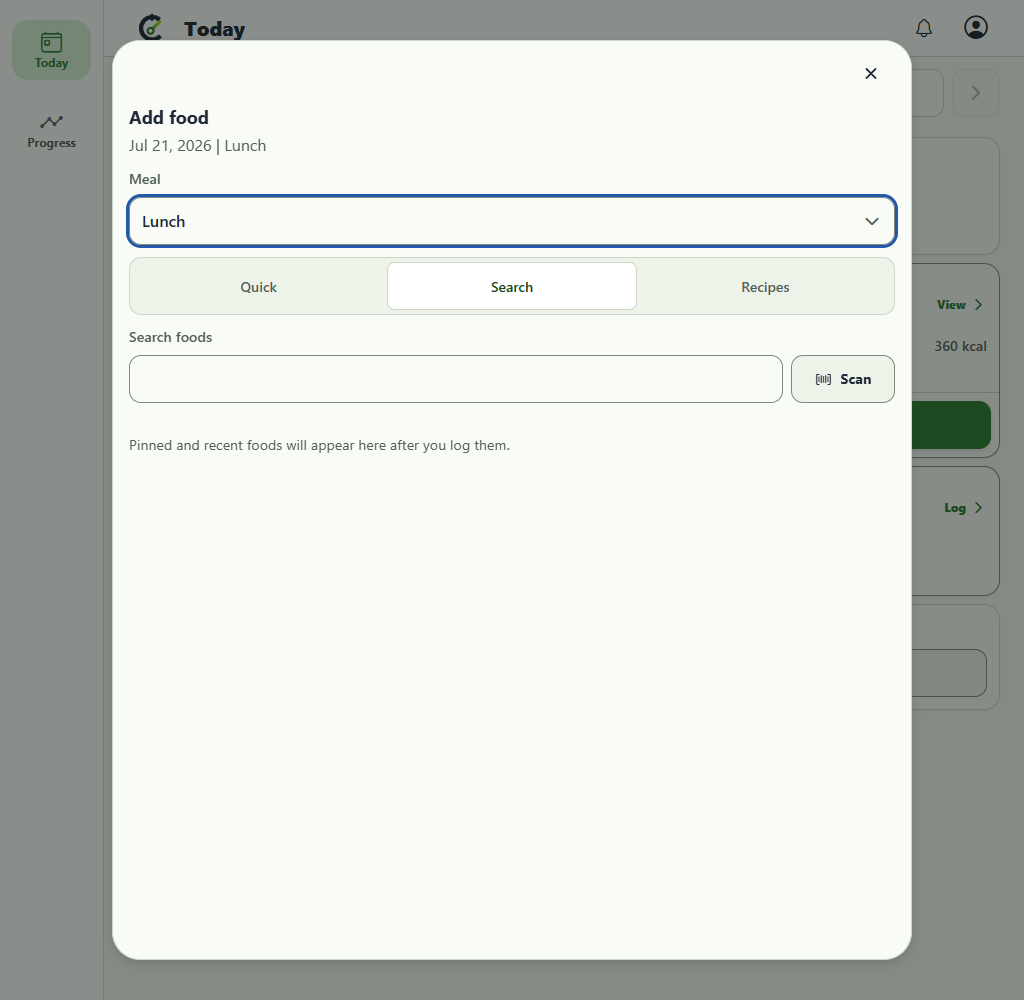
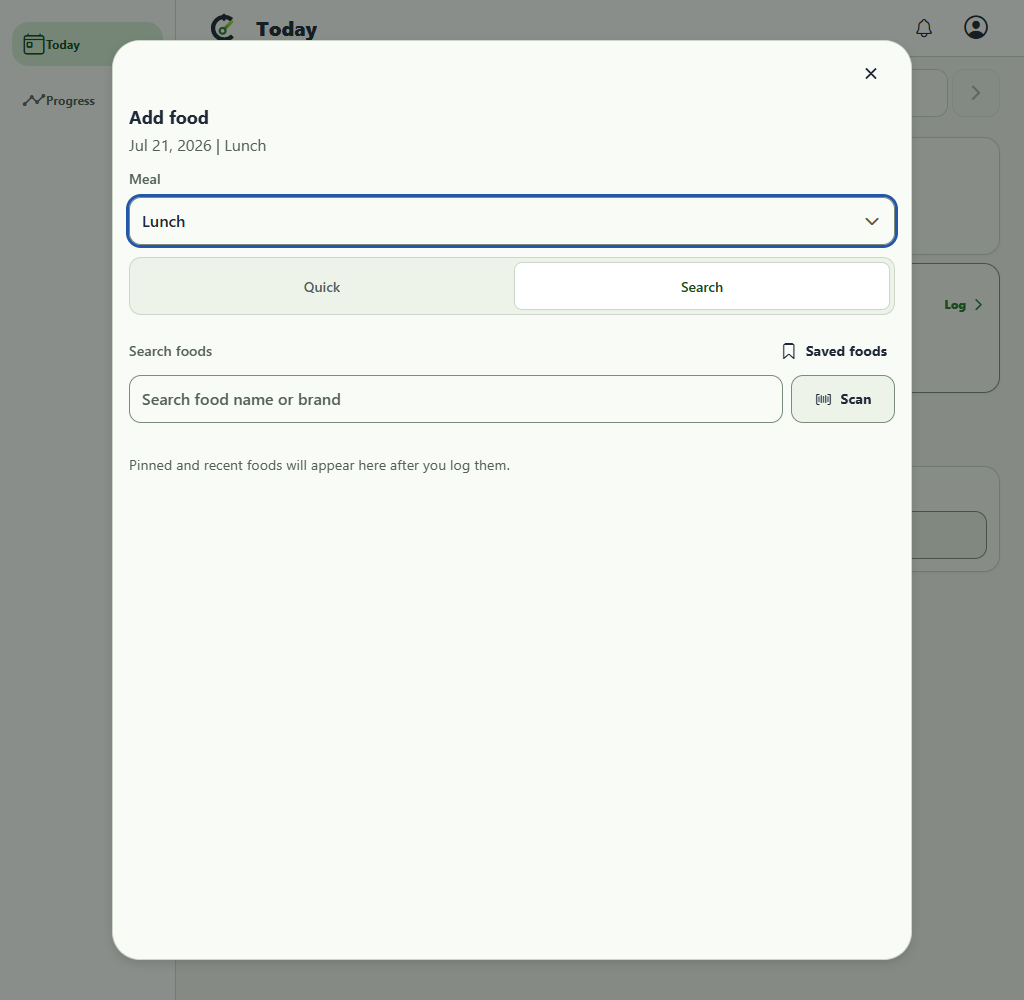
Simplify Add Food entry modes

diff --git a/mobile/src/components/AddFoodSheet.tsx b/mobile/src/components/AddFoodSheet.tsx
@@ -2,7 +2,7 @@ import React, { useCallback, useEffect, useMemo, useRef, useState } from 'react'
 import { FlatList, Keyboard, Linking, Platform, Pressable, StyleSheet, useWindowDimensions, View } from 'react-native';
 import Ionicons from '@expo/vector-icons/Ionicons';
 import { router } from 'expo-router';
-import { useInfiniteQuery, useMutation, useQuery, useQueryClient } from '@tanstack/react-query';
+import { useMutation, useQuery, useQueryClient } from '@tanstack/react-query';
 import { MEAL_PERIODS, type MealPeriod } from '@calibrate/shared';
 import type { FoodLogCreatePayload, MyFoodSummary, RecentFoodSummary } from '@calibrate/api-client';
 import { AppButton } from './AppButton';
@@ -44,10 +44,6 @@ import { radius, spacing, useAppTheme, type AppTheme } from '../theme';
 import { getSafeActionErrorMessage } from '../errors/presentation';
 import { confirmDiscardChanges } from './confirmDiscardChanges';
 import { ASYNC_RESOURCE_STATES, type AsyncResourceState } from '../asyncState/resolveAsyncState';
-import {
-    getSavedFoodsLibraryQueryKey,
-    SAVED_FOODS_LIBRARY_PAGE_SIZE
-} from '../savedFoods/queryKeys';
 
 type AddFoodReturnTo = 'today' | 'food-log';
 
@@ -60,7 +56,7 @@ type AddFoodSheetProps = {
     onLogged?: () => void;
 };
 
-type AddFoodMode = 'quick' | 'search' | 'recipes';
+type AddFoodMode = 'quick' | 'search';
 type FoodBrowseRow =
     | { kind: 'header'; key: string; title: string }
     | {
@@ -76,8 +72,7 @@ type FoodBrowseRow =
 const DEFAULT_ADD_FOOD_MODE: AddFoodMode = 'search';
 const ADD_FOOD_MODES: Array<{ value: AddFoodMode; label: string }> = [
     { value: 'quick', label: 'Quick' },
-    { value: 'search', label: 'Search' },
-    { value: 'recipes', label: 'Recipes' }
+    { value: 'search', label: 'Search' }
 ];
 const SEARCH_DEBOUNCE_MS = 350;
 const SEARCH_WORKSPACE_BLUR_DELAY_MS = 150; // Keeps mobile-web results mounted through input blur and the following press.
@@ -154,16 +149,13 @@ export const AddFoodSheet: React.FC<AddFoodSheetProps> = ({
     const [quickName, setQuickName] = useState('');
     const [query, setQuery] = useState('');
     const [requestedQuery, setRequestedQuery] = useState('');
-    const [recipeQuery, setRecipeQuery] = useState('');
-    const [requestedRecipeQuery, setRequestedRecipeQuery] = useState('');
     const [selection, setSelection] = useState<FoodLogSelection | null>(null);
     const [isMealSelectorOpen, setIsMealSelectorOpen] = useState(false);
     const [isSearchFieldFocused, setIsSearchFieldFocused] = useState(false);
     const searchBlurTimeoutRef = useRef<ReturnType<typeof setTimeout> | null>(null);
     const normalizedQuery = query.trim();
-    const normalizedRecipeQuery = recipeQuery.trim();
     const isMobileSearchWorkspace = (Platform.OS !== 'web' || viewportWidth < ADAPTIVE_DIALOG_BREAKPOINT)
-        && (mode === 'search' || mode === 'recipes')
+        && mode === 'search'
         && isSearchFieldFocused
         && selection === null;
     const usesEdgeToEdgeSheetContent = Platform.OS === 'web'
@@ -181,18 +173,6 @@ export const AddFoodSheet: React.FC<AddFoodSheetProps> = ({
         const timeout = setTimeout(() => setRequestedQuery(normalizedQuery), SEARCH_DEBOUNCE_MS);
         return () => clearTimeout(timeout);
     }, [mode, normalizedQuery, visible]);
-
-    useEffect(() => {
-        if (!visible || mode !== 'recipes' || normalizedRecipeQuery.length === 0) {
-            setRequestedRecipeQuery('');
-            return;
-        }
-        const timeout = setTimeout(
-            () => setRequestedRecipeQuery(normalizedRecipeQuery),
-            SEARCH_DEBOUNCE_MS
-        );
-        return () => clearTimeout(timeout);
-    }, [mode, normalizedRecipeQuery, visible]);
 
     const recentFoodsQuery = useQuery({
         queryKey: ['mobile-recent-foods', meal, requestedQuery || 'browse'],
@@ -213,24 +193,9 @@ export const AddFoodSheet: React.FC<AddFoodSheetProps> = ({
         queryFn: () => api.getMyFoods(),
         enabled: visible && mode === 'search'
     });
-    const recipeLibraryQuery = useInfiniteQuery({
-        queryKey: getSavedFoodsLibraryQueryKey(requestedRecipeQuery, 'RECIPE'),
-        queryFn: ({ pageParam }) => api.getMyFoodsLibrary({
-            q: requestedRecipeQuery || undefined,
-            type: 'RECIPE',
-            cursor: pageParam,
-            limit: SAVED_FOODS_LIBRARY_PAGE_SIZE
-        }),
-        initialPageParam: undefined as string | undefined,
-        getNextPageParam: (lastPage) => lastPage.next_cursor ?? undefined,
-        enabled: visible && mode === 'recipes'
-    });
     const recentFoodsState = useAsyncResourceState(recentFoodsQuery, (data) => data.items.length === 0);
     const providerSearchState = useAsyncResourceState(providerSearchQuery, (data) => data.items.length === 0);
     const myFoodsState = useAsyncResourceState(myFoodsQuery, (data) => data.length === 0);
-    const recipeLibraryState = useAsyncResourceState(recipeLibraryQuery, (data) =>
-        data.pages.every((page) => page.items.length === 0)
-    );
 
     const createFoodLog = useCallback((payload: FoodLogCreatePayload) => {
         if (foodDayQuery.data?.status !== 'OPEN') {
@@ -286,8 +251,6 @@ export const AddFoodSheet: React.FC<AddFoodSheetProps> = ({
         setQuickName('');
         setQuery('');
         setRequestedQuery('');
-        setRecipeQuery('');
-        setRequestedRecipeQuery('');
         setSelection(null);
         setIsMealSelectorOpen(false);
         setIsSearchFieldFocused(false);
@@ -370,19 +333,6 @@ export const AddFoodSheet: React.FC<AddFoodSheetProps> = ({
         savedFoods
     ]);
 
-    const recipes = recipeLibraryQuery.data?.pages.flatMap((page) => page.items) ?? [];
-    const recipeRows: FoodBrowseRow[] = recipes
-        .map((item) => ({
-            kind: 'selection',
-            key: `recipe:${item.id}`,
-            title: item.name,
-            subtitle: describeMyFood(item),
-            selection: createMyFoodSelection(item)
-        }));
-    const isWaitingForRecipeSearch = normalizedRecipeQuery !== requestedRecipeQuery;
-    const displayedRecipeState: AsyncResourceState = isWaitingForRecipeSearch
-        ? { kind: ASYNC_RESOURCE_STATES.LOADING, error: null }
-        : recipeLibraryState;
     const activeAttribution = getProviderAttribution(providerData?.provider, providerData?.attribution);
     const isWaitingForSearch = normalizedQuery.length >= MINIMUM_SEARCH_LENGTH && requestedQuery !== normalizedQuery;
     const isSearchLoading = isWaitingForSearch
@@ -723,76 +673,7 @@ export const AddFoodSheet: React.FC<AddFoodSheetProps> = ({
             );
         }
 
-        return (
-            <View style={styles.flex}>
-                {!isMobileSearchWorkspace && (
-                    <View style={styles.modeFieldHeader}>
-                        <AppText variant="label">Search recipes</AppText>
-                        {renderSavedFoodsAction()}
-                    </View>
-                )}
-                <TextField
-                    label="Search recipes"
-                    hideLabel
-                    value={recipeQuery}
-                    onChangeText={(value) => {
-                        setRecipeQuery(value);
-                        setSelection(null);
-                        logFood.reset();
-                    }}
-                    onFocus={focusSearchField}
-                    onBlur={blurSearchField}
-                    placeholder="e.g. chili, overnight oats"
-                    editable={!logFood.isPending}
-                />
-                {selection ? renderSelectionEditor() : (
-                    <AsyncStateBoundary
-                        state={displayedRecipeState}
-                        resourceLabel="saved recipes"
-                        loading={(
-                            <AppText style={styles.emptyMessage} variant="muted">
-                                {normalizedRecipeQuery ? 'Searching recipes...' : 'Loading recipes...'}
-                            </AppText>
-                        )}
-                        empty={(
-                            <AppText style={styles.emptyMessage} variant="muted">
-                                {requestedRecipeQuery
-                                    ? 'No recipes match this search.'
-                                    : 'No saved recipes yet. Create one in Saved foods to reuse it here.'}
-                            </AppText>
-                        )}
-                        onRetry={isOnline ? () => recipeLibraryQuery.refetch() : undefined}
-                        retrying={recipeLibraryQuery.isFetching}
-                    >
-                        <FlatList
-                            data={recipeRows}
-                            keyExtractor={(item) => item.key}
-                            renderItem={renderBrowseRow}
-                            ListEmptyComponent={(
-                                <AppText style={styles.emptyMessage} variant="muted">
-                                    No recipes match this search.
-                                </AppText>
-                            )}
-                            ListFooterComponent={recipeLibraryQuery.hasNextPage ? (
-                                <AppButton
-                                    title="Load more recipes"
-                                    variant="secondary"
-                                    busy={recipeLibraryQuery.isFetchingNextPage}
-                                    busyLabel="Loading more recipes..."
-                                    disabled={!isOnline}
-                                    onPress={() => void recipeLibraryQuery.fetchNextPage()}
-                                />
-                            ) : null}
-                            contentContainerStyle={styles.resultsContent}
-                            keyboardDismissMode="none"
-                            keyboardShouldPersistTaps="always"
-                            showsVerticalScrollIndicator
-                            style={styles.resultsList}
-                        />
-                    </AsyncStateBoundary>
-                )}
-            </View>
-        );
+        return null;
     }
 
     return (

diff --git a/mobile/src/components/AddFoodSheet.test.tsx b/mobile/src/components/AddFoodSheet.test.tsx
@@ -5,7 +5,6 @@ import { onlineManager, QueryClient, QueryClientProvider } from '@tanstack/react
 import { MEAL_PERIODS, type MealPeriod } from '@calibrate/shared';
 import type { RecentFoodSummary } from '@calibrate/api-client';
 import { AddFoodSheet } from './AddFoodSheet';
-import { getSavedFoodsLibraryQueryKey } from '../savedFoods/queryKeys';
 
 jest.mock('@expo/vector-icons/Ionicons', () => () => null);
 jest.mock('expo-router', () => ({ router: { push: jest.fn() } }));
@@ -21,7 +20,6 @@ const mockApi = {
     getRecentFoods: jest.fn(),
     searchFood: jest.fn(),
     getMyFoods: jest.fn(),
-    getMyFoodsLibrary: jest.fn(),
     createFoodLog: jest.fn()
 };
 
@@ -131,7 +129,6 @@ describe('AddFoodSheet async resource states', () => {
         mockApi.getRecentFoods.mockResolvedValue({ items: [] });
         mockApi.searchFood.mockResolvedValue({ items: [] });
         mockApi.getMyFoods.mockResolvedValue([]);
-        mockApi.getMyFoodsLibrary.mockResolvedValue({ items: [], next_cursor: null });
         onlineManager.setOnline(false);
     });
 
@@ -236,72 +233,32 @@ describe('AddFoodSheet async resource states', () => {
         }
     });
 
-    it('keeps cached recipes usable while labeling them stale offline', async () => {
-        const screen = renderSheet((queryClient) => {
-            queryClient.setQueryData(getSavedFoodsLibraryQueryKey('', 'RECIPE'), {
-                pages: [{
-                    items: [{
-                        id: 14,
-                        type: 'RECIPE',
-                        name: 'Overnight oats',
-                        is_pinned: false,
-                        serving_size_quantity: 1,
-                        serving_unit_label: 'serving',
-                        calories_per_serving: 320,
-                        recipe_total_calories: 640,
-                        yield_servings: 2
-                    }],
-                    next_cursor: null
-                }],
-                pageParams: [undefined]
-            });
-        });
-        fireEvent.press(screen.getByRole('radio', { name: 'Recipes' }));
-
-        await waitFor(() => expect(screen.getByText('Offline - showing saved information')).toBeTruthy());
-        expect(screen.getByText('Overnight oats')).toBeTruthy();
-        expect(screen.queryByText('No saved recipes yet. Create one in Saved foods to reuse it here.')).toBeNull();
-    });
-
-    it('does not describe an uncached offline recipe library as empty', async () => {
-        const screen = renderSheet();
-        fireEvent.press(screen.getByRole('radio', { name: 'Recipes' }));
-
-        await waitFor(() => expect(screen.getByText('Connect to the internet to load saved recipes.')).toBeTruthy());
-        expect(screen.queryByText('No saved recipes yet. Create one in Saved foods to reuse it here.')).toBeNull();
-        expect(screen.queryByText('No recipes match this search.')).toBeNull();
-        expect(screen.queryByRole('button', { name: 'Retry' })).toBeNull();
-        expect(mockApi.getMyFoodsLibrary).not.toHaveBeenCalled();
-    });
-
-    it('searches the recipe library on the server instead of filtering the legacy saved-food cache', async () => {
+    it('offers only Quick and Search while keeping saved recipes discoverable in Search', async () => {
         onlineManager.setOnline(true);
-        mockApi.getMyFoodsLibrary.mockImplementation(({ q }: { q?: string }) => Promise.resolve({
-            items: q === 'oats' ? [{
-                id: 14,
-                type: 'RECIPE',
-                name: 'Overnight oats',
-                is_pinned: false,
-                serving_size_quantity: 1,
-                serving_unit_label: 'serving',
-                calories_per_serving: 320,
-                recipe_total_calories: 640,
-                yield_servings: 2
-            }] : [],
-            next_cursor: null
-        }));
+        mockApi.getMyFoods.mockResolvedValue([{
+            id: 14,
+            type: 'RECIPE',
+            name: 'Overnight oats',
+            is_pinned: false,
+            serving_size_quantity: 1,
+            serving_unit_label: 'serving',
+            calories_per_serving: 320,
+            recipe_total_calories: 640,
+            yield_servings: 2
+        }]);
         const screen = renderSheet();
 
-        fireEvent.press(screen.getByRole('radio', { name: 'Recipes' }));
-        fireEvent.changeText(screen.getByLabelText('Search recipes'), '  oats  ');
+        expect(screen.getByRole('radio', { name: 'Quick' })).toBeTruthy();
+        expect(screen.getByRole('radio', { name: 'Search' })).toBeTruthy();
+        expect(screen.queryByRole('radio', { name: 'Recipes' })).toBeNull();
+        expect(screen.queryByLabelText('Search recipes')).toBeNull();
 
-        await waitFor(() => expect(mockApi.getMyFoodsLibrary).toHaveBeenCalledWith({
-            q: 'oats',
-            type: 'RECIPE',
-            cursor: undefined,
-            limit: 24
-        }));
+        const searchField = screen.getByLabelText('Search foods');
+        fireEvent.changeText(searchField, '  oats  ');
+        fireEvent(searchField, 'submitEditing');
+
         expect(await screen.findByText('Overnight oats')).toBeTruthy();
+        expect(screen.getByText('Recipe | 320 kcal per serving')).toBeTruthy();
     });
 
     it('links to Saved foods from the Add Food sheet', () => {
@@ -314,9 +271,6 @@ describe('AddFoodSheet async resource states', () => {
 
         fireEvent.press(screen.getByRole('radio', { name: 'Quick' }));
         expect(screen.queryByRole('button', { name: 'Saved foods' })).toBeNull();
-
-        fireEvent.press(screen.getByRole('radio', { name: 'Recipes' }));
-        expect(screen.getByRole('button', { name: 'Saved foods' })).toBeTruthy();
     });
 
     it('confirms before Saved foods or Scan discards a selected food draft', async () => {
